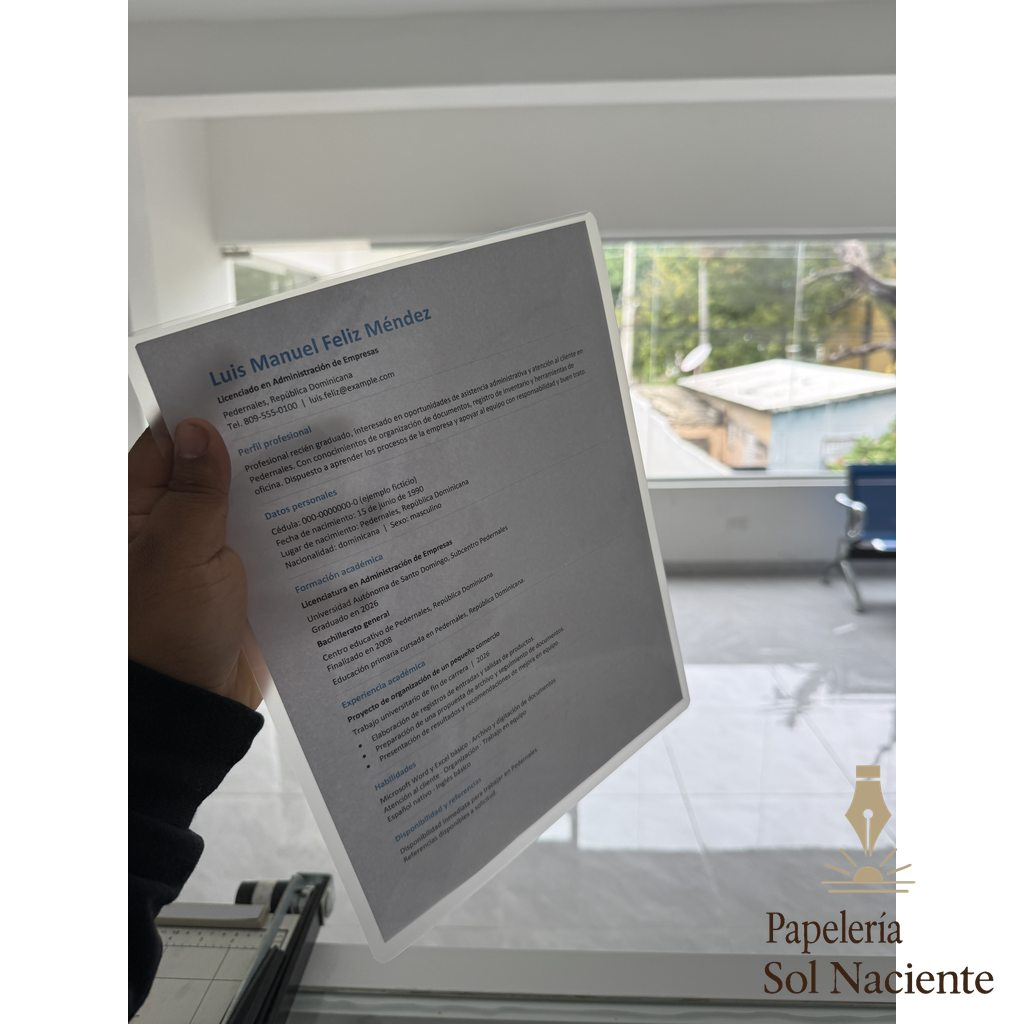
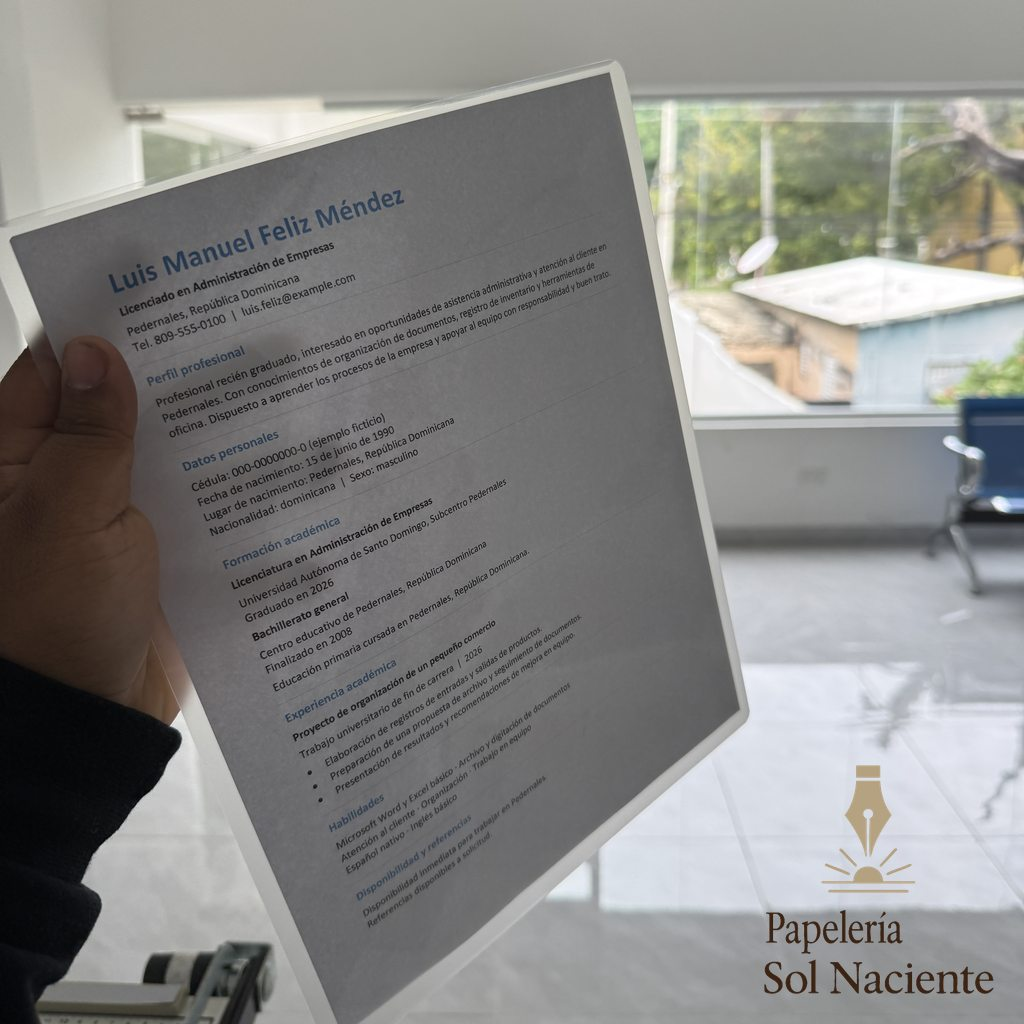
Crop new product photos edge to edge and refresh image cache

diff --git a/index.js b/index.js
@@ -90,7 +90,7 @@ document.addEventListener("DOMContentLoaded", async () => {
   function productImageUrl(p) {
     const sku = String(p?.sku || "").trim();
     if (!sku) return "";
-    return `img/products/${encodeURIComponent(sku)}.jpg?v=1`;
+    return `img/products/${encodeURIComponent(sku)}.jpg?v=20261008`;
   }
 
   function imgMediaHTML(p) {

diff --git a/catalog.js b/catalog.js
@@ -405,7 +405,7 @@ document.addEventListener("DOMContentLoaded", () => {
  function productImageUrl(p) {
   const sku = String(p?.sku || "").trim();
   if (!sku) return "";
-  return `/img/products/${encodeURIComponent(sku)}.jpg?v=1`;
+  return `/img/products/${encodeURIComponent(sku)}.jpg?v=20261008`;
 }
 
   function imgMediaHTML(p) {
